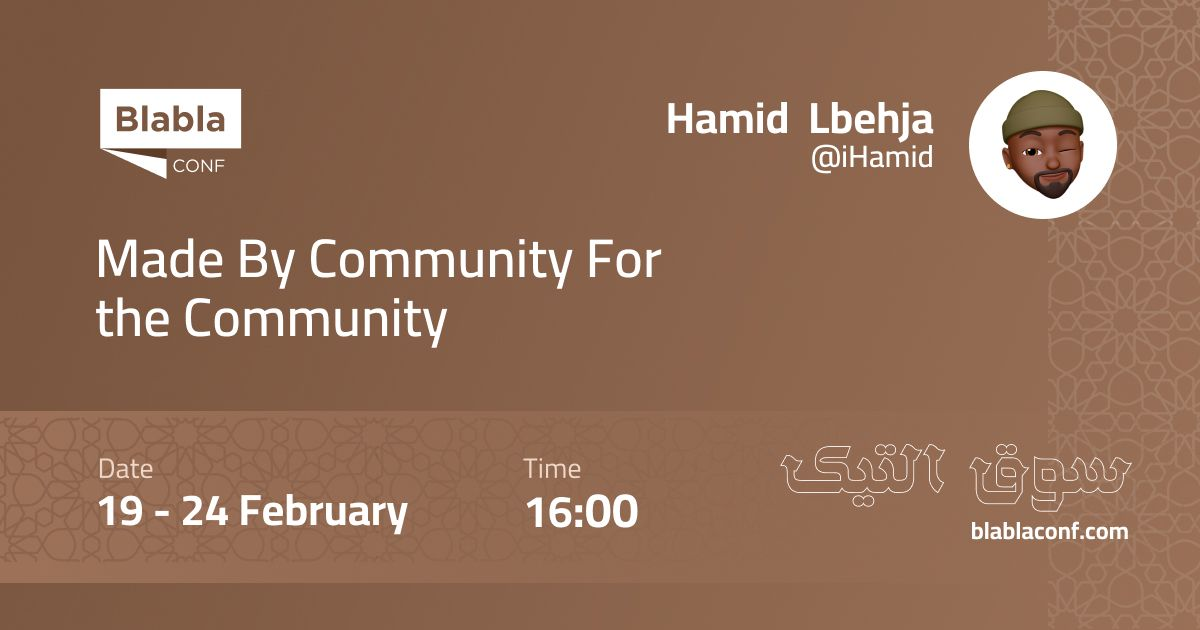
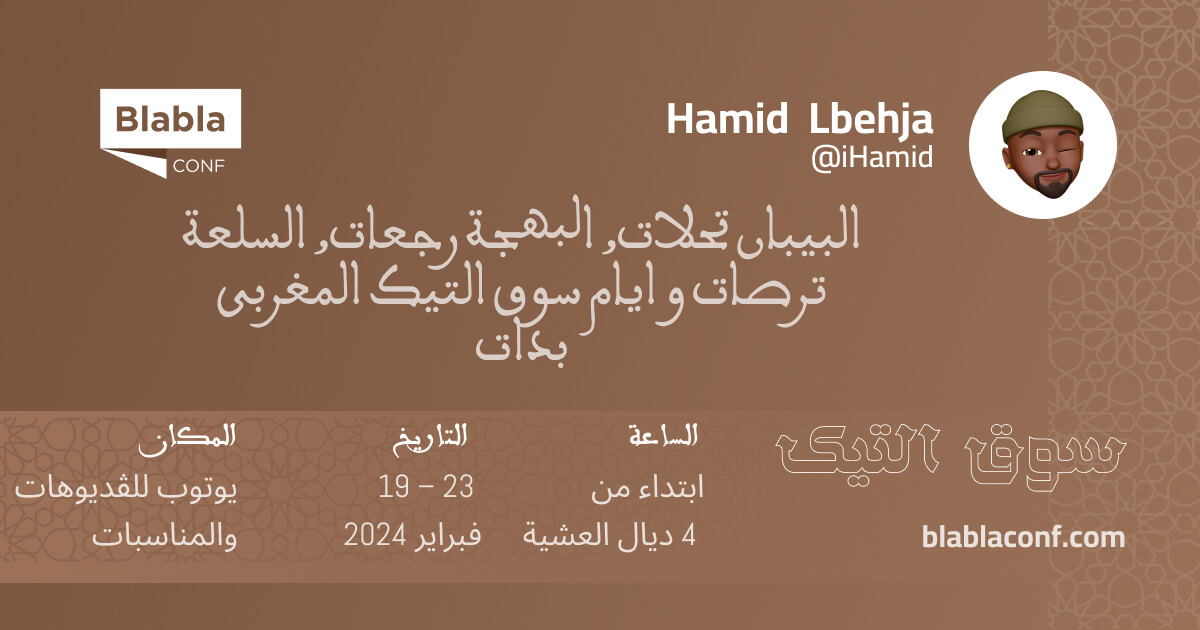
chore: update base ticket

diff --git a/app/ticket/image/route.tsx b/app/ticket/image/route.tsx
@@ -65,7 +65,7 @@ export async function GET(request: Request) {
         <img
           width="1200"
           height="630"
-          src={`https://res.cloudinary.com/duko2tssr/image/upload/v1706825045/ticket-back_b6qvdk.jpg`}
+          src={`https://res.cloudinary.com/duko2tssr/image/upload/v1707080203/Geeksblabla_Ticket_1_mhwfo1.jpg`}
         />
         <div
           style={{
@@ -123,7 +123,7 @@ export async function GET(request: Request) {
             display: "flex",
             position: "absolute",
             top: 250,
-            right: 150,
+            right: 100,
             height: 150,
             width: 300,
             // flexDirection: "row-reverse",
@@ -133,7 +133,7 @@ export async function GET(request: Request) {
           <span
             style={{
               color: "white",
-              opacity: 0.5,
+              opacity: 0.4,
               textAlign: "right",
               fontWeight: "900",
               fontSize: 54,
